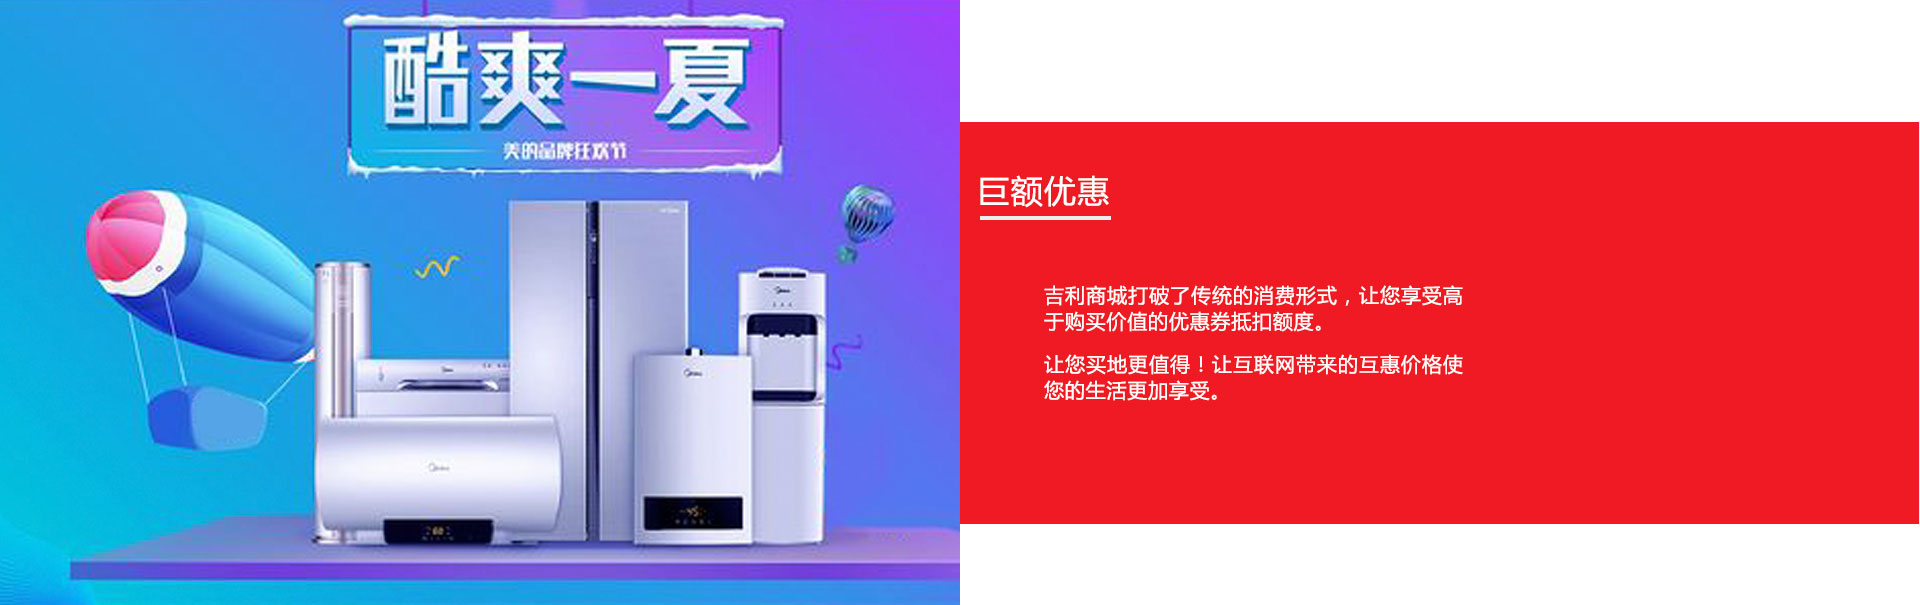
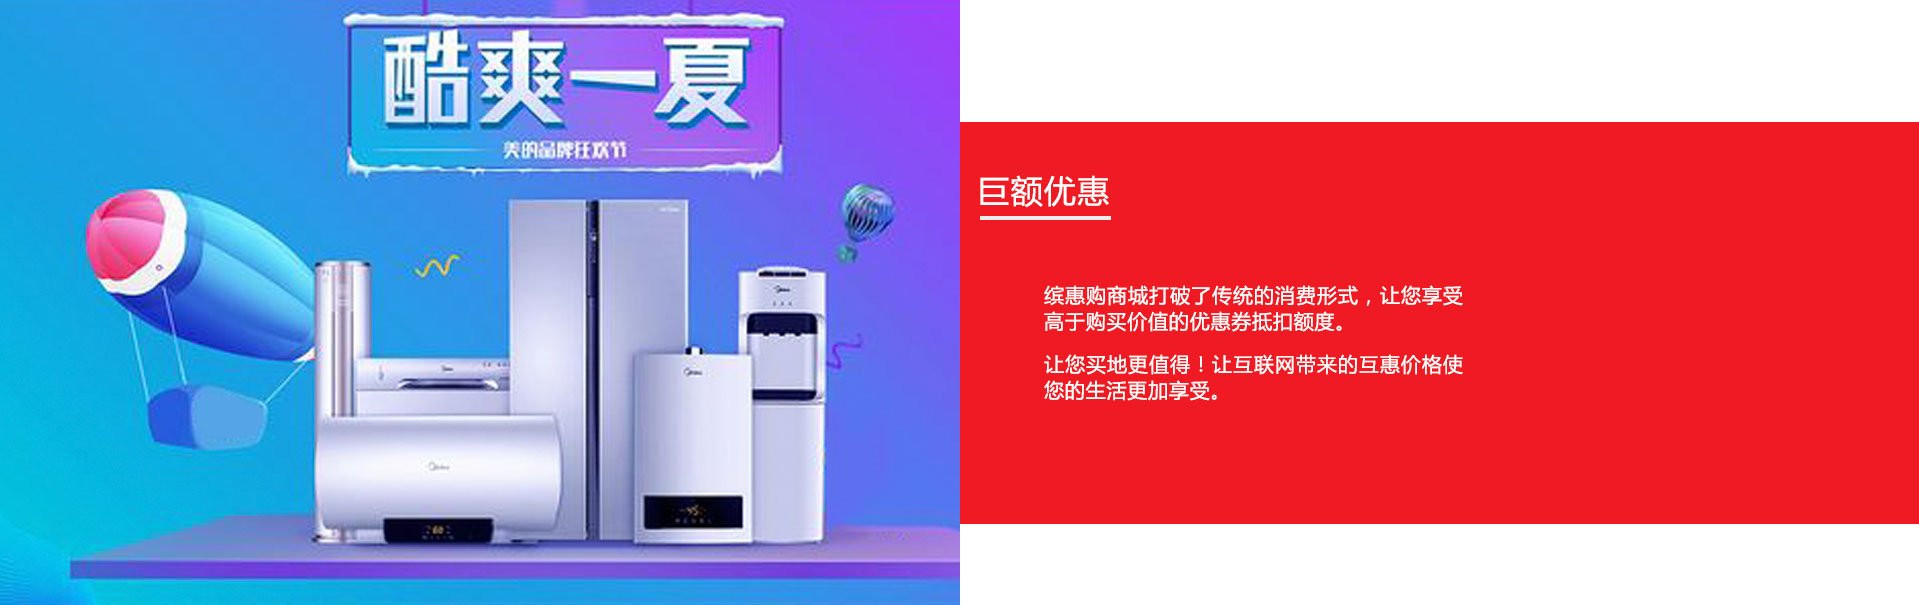
fix:代码提交

diff --git a/src/index/App.vue b/src/index/App.vue
@@ -4,7 +4,7 @@
       <div class="header-box clearfix">
         <div class="fleft header-box-left" @click="jumpClick(1)">
           <div class="img fleft"><img src="../assets/img/index/logo.png" alt=""></div>
-          <div class="app-name fleft">吉利商城</div>
+          <div class="app-name fleft">缤惠购商城</div>
         </div>
         <div class="fright header-box-right">
           <div class="fleft download positionR">
@@ -17,7 +17,7 @@
       <div class="header-box clearfix">
         <div class="fleft header-box-left">
           <div class="img fleft"><img src="../assets/img/index/logo.png" alt=""></div>
-          <div class="app-name fleft">吉利商城</div>
+          <div class="app-name fleft">缤惠购商城</div>
         </div>
         <div class="fright header-box-right">
           <div class="fleft download" @mouseenter="mouseover" @mouseleave="mouseLeave" @click="goTop">
@@ -171,48 +171,12 @@
           <p>Professional home appliance mall</p>
         </div>
       </div>
-      <div class="content13">
-        <div class="content13_cont clearfix">
-          <div class="content13_cont_left fleft">
-            <div class="content13_cont_left_txt1 clearfix">
-              <img class="fleft" src="../assets/img/index/logo.png" alt="">
-              <div class="content13_cont_left_txt1_p fleft">
-                <p>吉利商城</p>
-                <p>平和雅方信息技术服务有限公司</p>
-              </div>
-            </div>
-            <div class="content13_cont_left_txt2 clearfix">
-              <img class="fleft" src="../assets/img/index/tel1.png" alt="">
-              <div class="content13_cont_left_txt2_p fleft">
-                  <p>E-mail ：yunxiangshop@163.com</p>
-              </div>
-            </div>
-            <div class="content13_cont_left_txt3 clearfix">
-              <img class="fleft" src="../assets/img/index/tel2.png" alt="">
-              <div class="content13_cont_left_txt3_p fleft">
-                <p>福建省</p>
-                <p>平和雅方信息技术服务有限公司</p>
-              </div>
-            </div>
-            <div class="content13_cont_left_txt4 clearfix">
-              <img class="fleft" src="../assets/img/index/tel3.png" alt="">
-              <div class="content13_cont_left_txt4_p fleft">
-                <p>工作时间</p>
-                <p>工作日：9：00-22：00</p>
-                <p>周末及节假日：9：00-21：00</p>
-              </div>
-            </div>
-          </div>
-          <div class="content13_cont_right fleft">
-            <img src="../assets/img/index/map.jpg" alt="">
-          </div>
-        </div>
-      </div>
+
     </div>
     <div class="footer">
       <div class="footer_cont">
-        <a href="http://beian.miit.gov.cn/?spm=a2c4g.11186623.7y9jhqsfz.111.26b47243MaN2zM" target="_blank" data-spm-anchor-id="a2c4g.11186623.7y9jhqsfz.111">粤ICP备18024266号-1</a>
-              www.yunsharemall.com @ 2020-2021 吉利商城版权所有
+        <a href="http://beian.miit.gov.cn/?spm=a2c4g.11186623.7y9jhqsfz.111.26b47243MaN2zM" target="_blank" data-spm-anchor-id="a2c4g.11186623.7y9jhqsfz.111">杭ICP备 34687532号-1</a>
+              http://www.af.yunsharemall.com/ @ 2021 缤惠购商城版权所有
       </div>
     </div>
   </div>

diff --git a/src/index/index.html b/src/index/index.html
@@ -6,7 +6,7 @@
   <meta http-equiv="X-UA-Compatible" content="IE=edge">
   <meta name="viewport" content="width=device-width,initial-scale=1.0">
   <link rel="icon" href="/static/favicon.ico">
-  <title>吉利商城-好物易购</title>
+  <title>缤惠购商城-好物易购</title>
 </head>
 
 <body>
